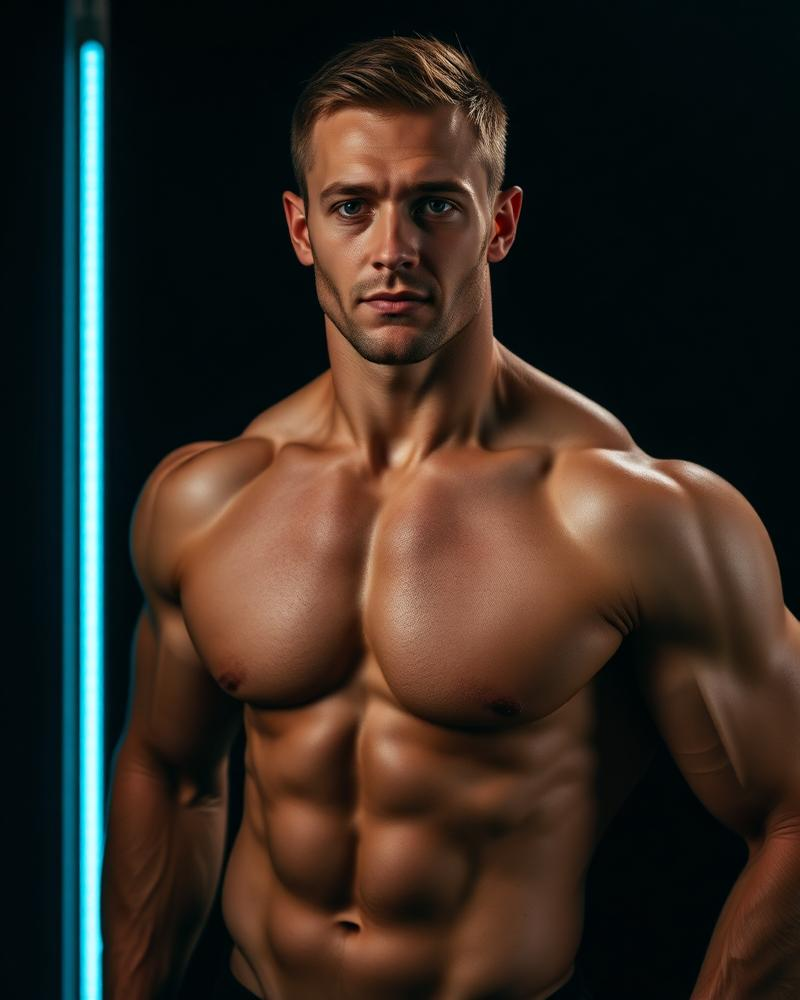
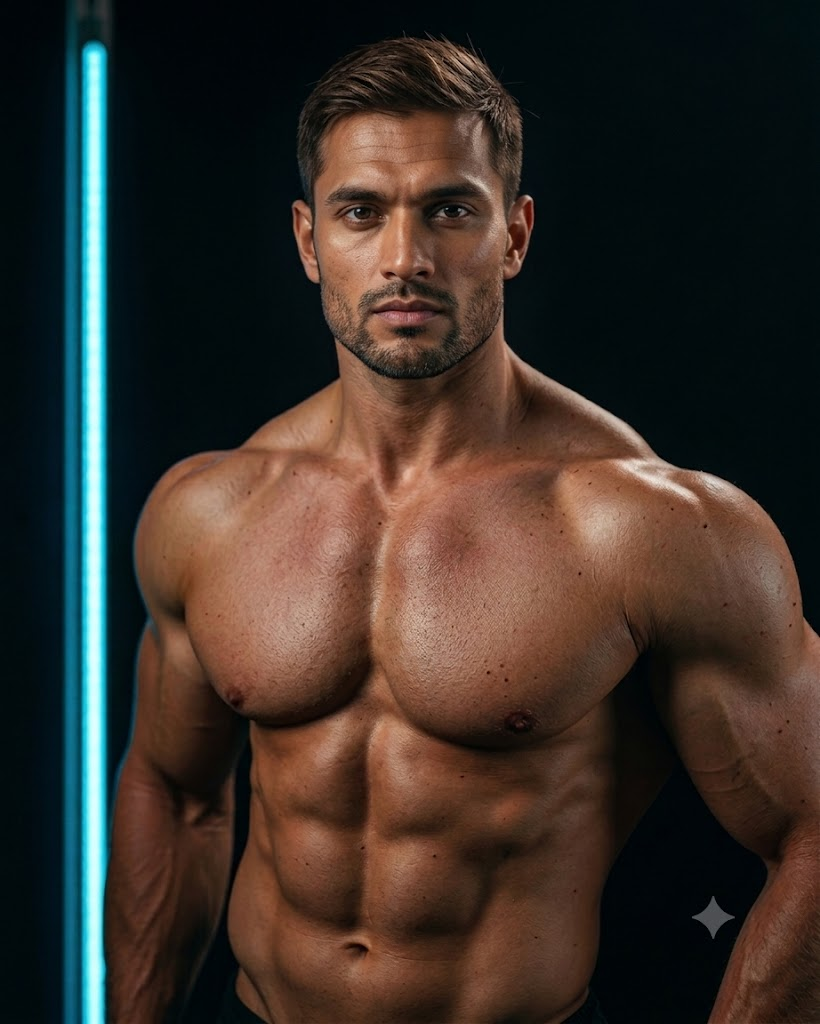
changes

diff --git a/src/components/site/Contact.tsx b/src/components/site/Contact.tsx
@@ -4,9 +4,9 @@ import { motion, AnimatePresence } from "framer-motion";
 import { Phone, Mail, MapPin, Clock, Instagram, Facebook, Check } from "lucide-react";
 
 const info = [
-  { icon: MapPin, label: "Visit", value: "24 Skyline Ave, Downtown" },
-  { icon: Phone, label: "Call", value: "+1 (555) 018-2200" },
-  { icon: Mail, label: "Email", value: "[email redacted]" },
+  { icon: MapPin, label: "Visit", value: "2nd Floor, 24 Skyline Ave, Madhapur" },
+  { icon: Phone, label: "Call", value: "+91 9876543210" },
+  { icon: Mail, label: "Email", value: "[email redacted]" },
   { icon: Clock, label: "Hours", value: "Mon–Sun · 5AM – 11PM" },
 ];
 